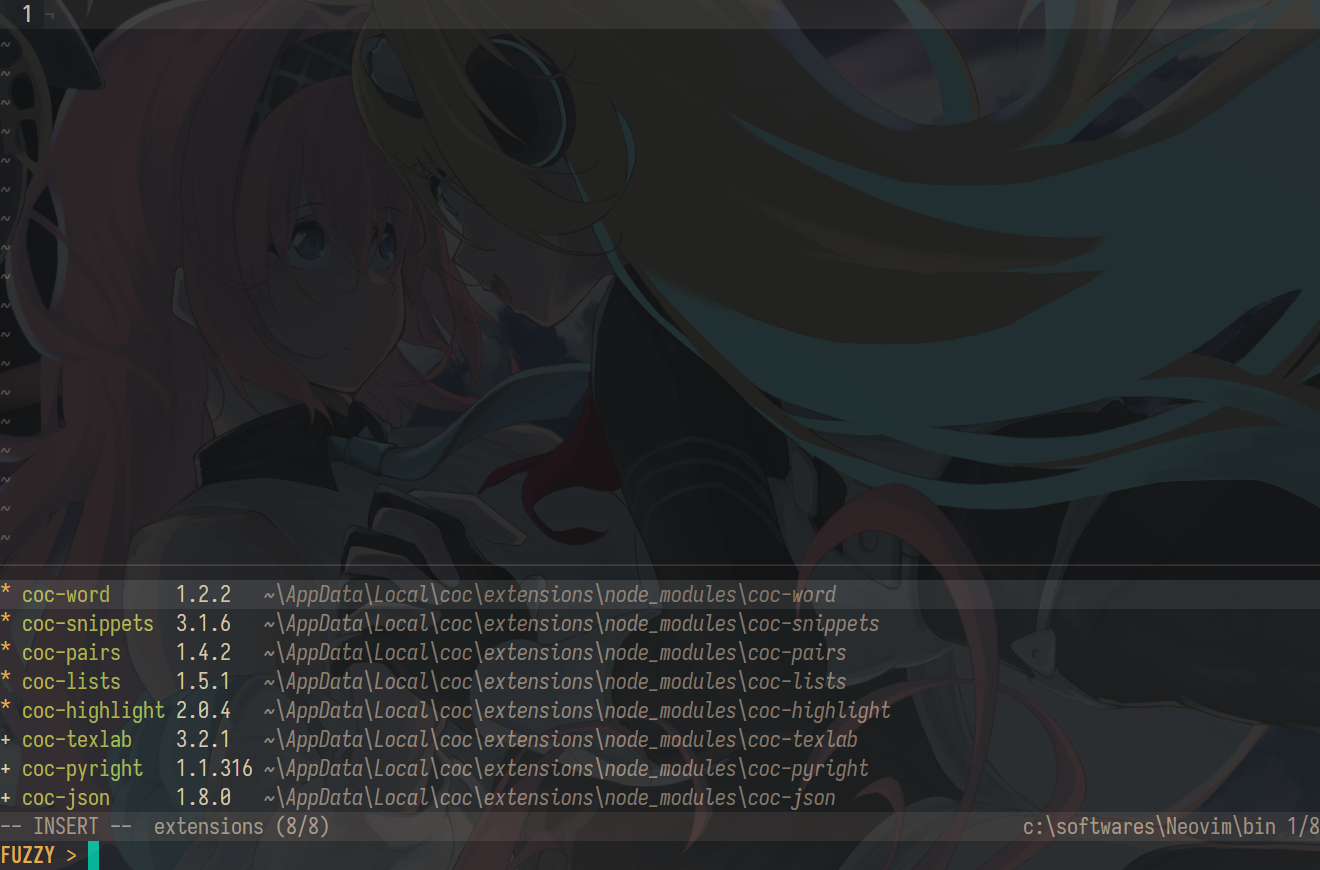
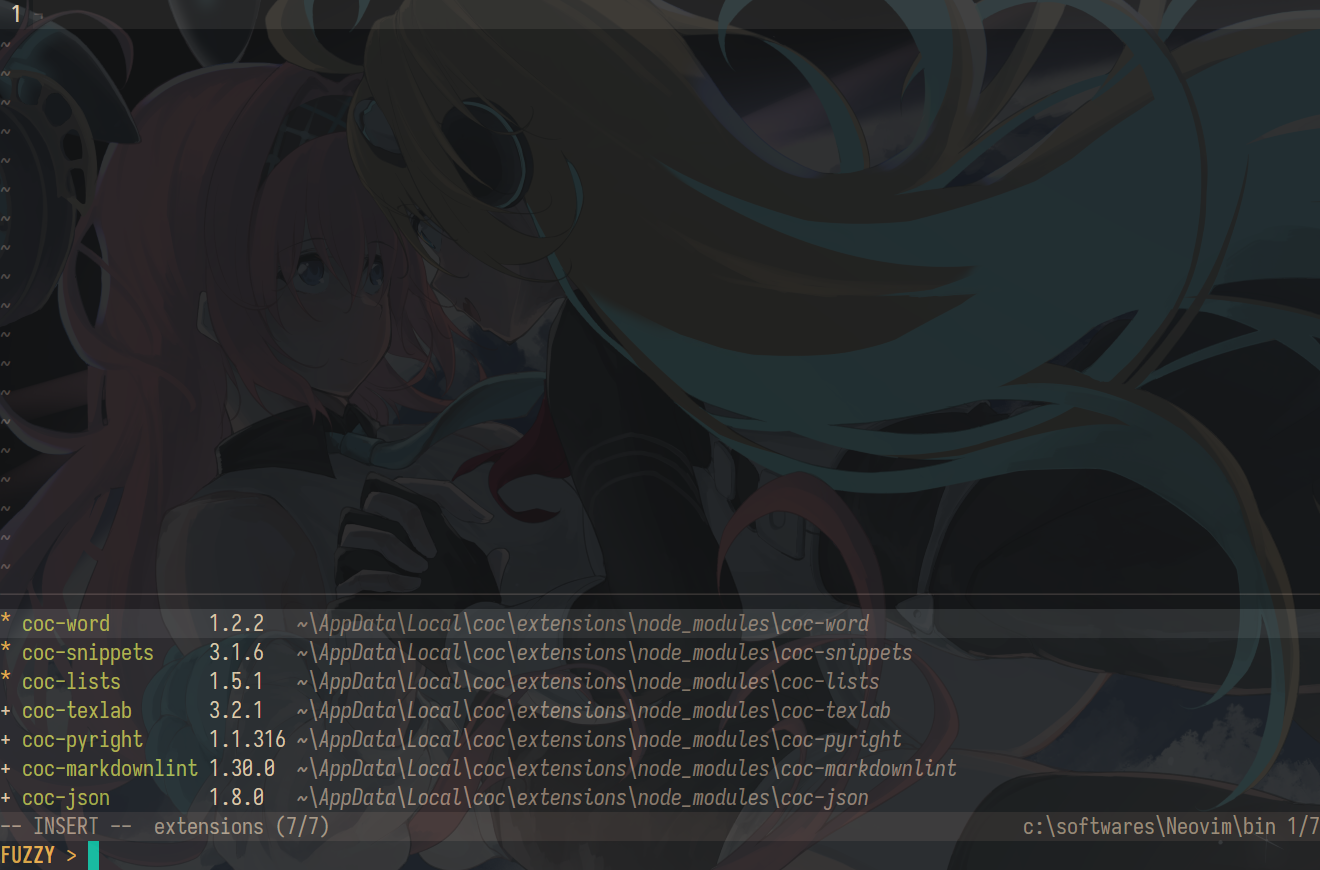
coc-highlight → nvim-colorizer.lua, coc-pairs → nvim-autopairs

diff --git a/mds/jupynium.nvim.md b/mds/jupynium.nvim.md
@@ -45,11 +45,11 @@ conda run --no-capture-output -n some_env jupyter notebook
 ## In `init.vim`
 
 ``` vim
-let g:conda_env = 'opencda'
+let g:conda_env = 'some_env'
 
-" Plug 'kiyoon/jupynium.nvim', { 'do': 'pip3 install --user .' }
-Plug 'kiyoon/jupynium.nvim', { 'do': 'conda run --no-capture-output -n '
-    \. g:conda_env . ' pip install .' }
+Plug 'kiyoon/jupynium.nvim', { 'do': 'pip3 install --user .' }
+" Plug 'kiyoon/jupynium.nvim', { 'do': 'conda run --no-capture-output -n '
+"     \. g:conda_env . ' pip install .' }
 
 " usage:
 " 1. open a `*.ju.py` file
@@ -85,7 +85,6 @@ function s:set_keymap_for_jupynium()
     xmap <buffer> aj <Cmd>lua require'jupynium.textobj'.select_cell(true, false)<CR>
     omap <buffer> aj <Cmd>lua require'jupynium.textobj'.select_cell(true, false)<CR>
     " command key mappings
-    " nmap <buffer> <F5> <Cmd>lua fn_wo_ext = vim.fn.expand '%:r:r' vim.cmd([[JupyniumStartSync ]] .. fn_wo_ext)<CR>
     nmap <buffer> <F5> <Cmd>JupyniumStartSync<CR>
     map <buffer> <S-CR> <Cmd>JupyniumExecuteSelectedCells<CR><Cmd>lua require'jupynium.textobj'.goto_next_cell_separator()<CR>
     map <buffer> <leader>c <Cmd>JupyniumClearSelectedCellsOutputs<CR>
@@ -97,9 +96,9 @@ augroup JupyniumKeyMap
 augroup END
 
 " highlight for jupynium
-hi! link JupyniumCodeCellSeparator MatchParen
+hi! link JupyniumCodeCellSeparator     MatchParen
 hi! link JupyniumMarkdownCellSeparator MatchParen
-hi! link JupyniumMagicCommand Keyword
+hi! link JupyniumMagicCommand          Keyword
 ```
 
 Set by `lua`:  
@@ -122,8 +121,7 @@ require("jupynium").setup({
     use_default_keybindings = false,
     textobjects = { use_default_keybindings = false, },
     syntax_highlight = { enable = true, },
-    -- dim all cells except the current one
-    shortsighted = true,
+    shortsighted = true,  -- dim all cells except the current one
 })
 ```
 

diff --git a/mds/ccls.md b/mds/ccls.md
@@ -63,10 +63,7 @@ Finally, add `*\ccls\Release` to the PATH Environment Variable
       "filetypes": [ "c", "cpp", "cuda", "objc", "objcpp" ],
       "rootPatterns": [ ".ccls", "compile_commands.json" ],
       "initializationOptions": {
-        "cache": {
-          "directory": ".ccls-cache",
-          "format": "binary"
-        },
+        "cache": { "directory": ".ccls-cache", "format": "binary" },
         "index": { "multiVersion": 0 },
         "highlight": { "lsRanges": true }
         // If the project is compiled with MSVC,
@@ -92,10 +89,10 @@ Plug 'jackguo380/vim-lsp-cxx-highlight'
 
 " highlight for vim-lsp-cxx-highlight
 function s:custom_LspCxxHl()
-    hi! link LspCxxHlGroupEnumConstant Constant
-    hi! link LspCxxHlGroupNamespace Directory
-    hi! link LspCxxHlGroupMemberVariable Identifier
-    hi! link LspCxxHlSymVariable Identifier
+    hi! link LspCxxHlGroupEnumConstant     Constant
+    hi! link LspCxxHlGroupNamespace        Directory
+    hi! link LspCxxHlGroupMemberVariable   Identifier
+    hi! link LspCxxHlSymVariable           Identifier
     hi! link LspCxxHlSymUnknownStaticField Identifier
     " A name dependent on a template, usually a function but can also be a variable?
     hi! link LspCxxHlSymDependentName Function

diff --git a/README.md b/README.md
@@ -29,7 +29,7 @@ If you're using Conda virtual environment, don't forget to specify these two var
 - `g:python3_host_prog`  
 - `g:conda_env`  
 
-2. GUI/client: `Nvy` [Nvy](https://github.com/RMichelsen/Nvy/releases)  
+2. GUI/client: [Nvy](https://github.com/RMichelsen/Nvy/releases)  
 
 > Builtin `neovim-qt/nvim-qt` doesn't support `Direct Write`  
 
@@ -82,7 +82,7 @@ After installing this plugin, run Neovim via Visual Studio's "x64 Native Tools C
 
 ## `iamcco/markdown-preview.nvim`
 
-- Add `chrome.exe` to PATH Environment Variable  
+- Add `firefox.exe` to PATH Environment Variable  
 - Install `yarn`:  
 
 ``` ps1

diff --git a/mds/coc-lists-ripgrep.md b/mds/coc-lists-ripgrep.md
@@ -131,5 +131,5 @@ nmap <silent> \s <Cmd>CocList symbols<CR>
 nmap <silent> \f <Cmd>CocList files<CR>
 nmap <silent> \g <Cmd>CocList grep<CR>
 nmap <silent> \l <Cmd>CocList lines<CR>
-nmap <silent> \r <Cmd>CocList mru<CR>
+nmap <silent> \m <Cmd>CocList mru<CR>
 ```
